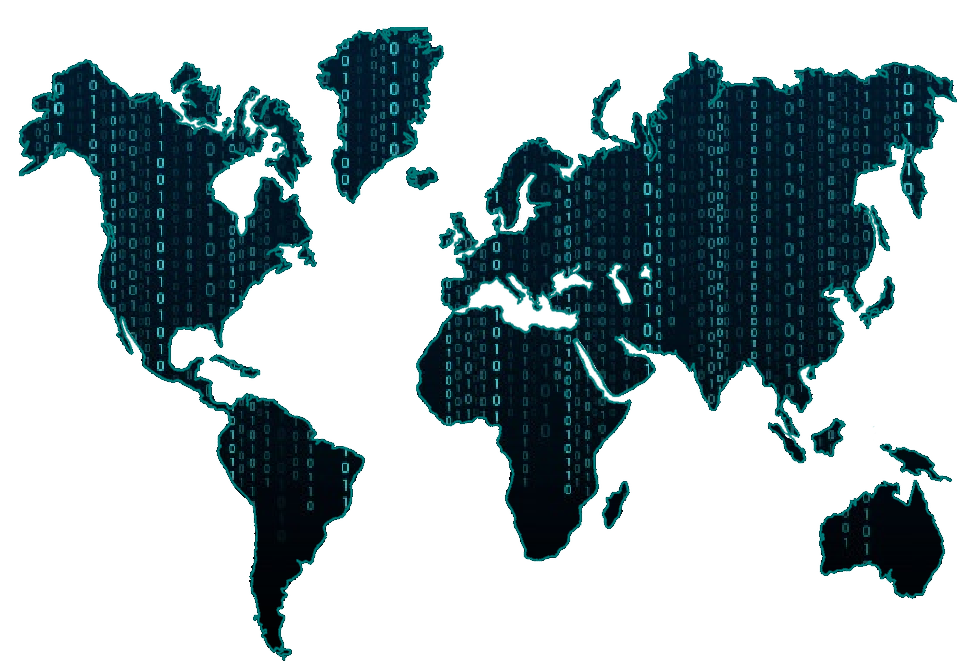
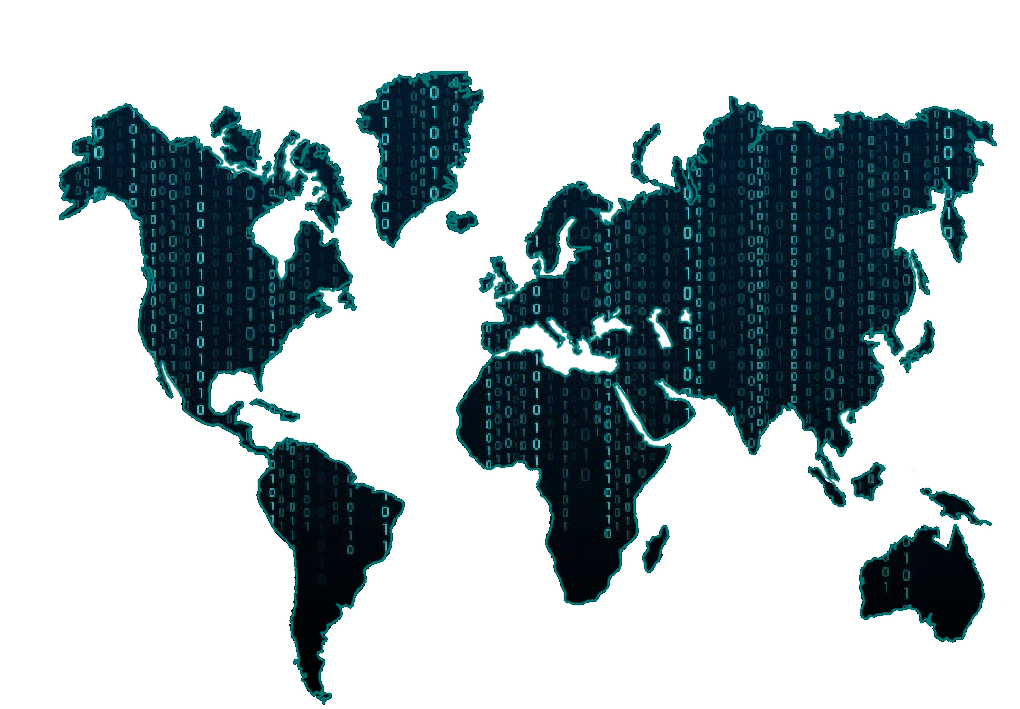
Añadido fondo

Changed region(s): [[0.0, 0.03, 0.9969, 0.991], [0.8411, 0.6607, 0.9969, 0.9009]]

diff --git a/src/SeleccionMundo.xaml b/src/SeleccionMundo.xaml
@@ -25,6 +25,11 @@
             <RowDefinition Height="1*"/>
         </Grid.RowDefinitions>
 
+        <!--Fondo-->
+        <RelativePanel Grid.ColumnSpan="9" Grid.RowSpan="3" Margin="0,0,0,0" HorizontalAlignment="Center" VerticalAlignment="Center">
+            <Image x:Name="Fondo" Source="Assets/fondo.png" Stretch="Fill"/>
+        </RelativePanel>
+
         <RelativePanel VerticalAlignment="Center" Grid.ColumnSpan="6" RelativePanel.AlignHorizontalCenterWithPanel="True" RelativePanel.AlignVerticalCenterWithPanel="True">
             <Image x:Name="World" Source="Assets/fondoAzul.png" Stretch="Fill" PointerPressed="World_Click"/>
         </RelativePanel>

diff --git a/src/SeleccionZona.xaml b/src/SeleccionZona.xaml
@@ -20,6 +20,11 @@
             <RowDefinition Height="2*"/>
         </Grid.RowDefinitions>
 
+        <!--Fondo-->
+        <RelativePanel Grid.ColumnSpan="3" Grid.RowSpan="3" Margin="0,0,0,0" HorizontalAlignment="Center" VerticalAlignment="Center">
+            <Image x:Name="Fondo" Source="Assets/fondo.png" Stretch="Fill"/>
+        </RelativePanel>
+
         <!--Primera fila-->
         <RelativePanel Grid.Column="1" Margin="0,5,0,0" HorizontalAlignment="Center" VerticalAlignment="Center">
             <Image x:Name="MoneyImage" Source="Assets/panel2.png" Stretch="Fill" MaxWidth="450" MaxHeight="350"/>
